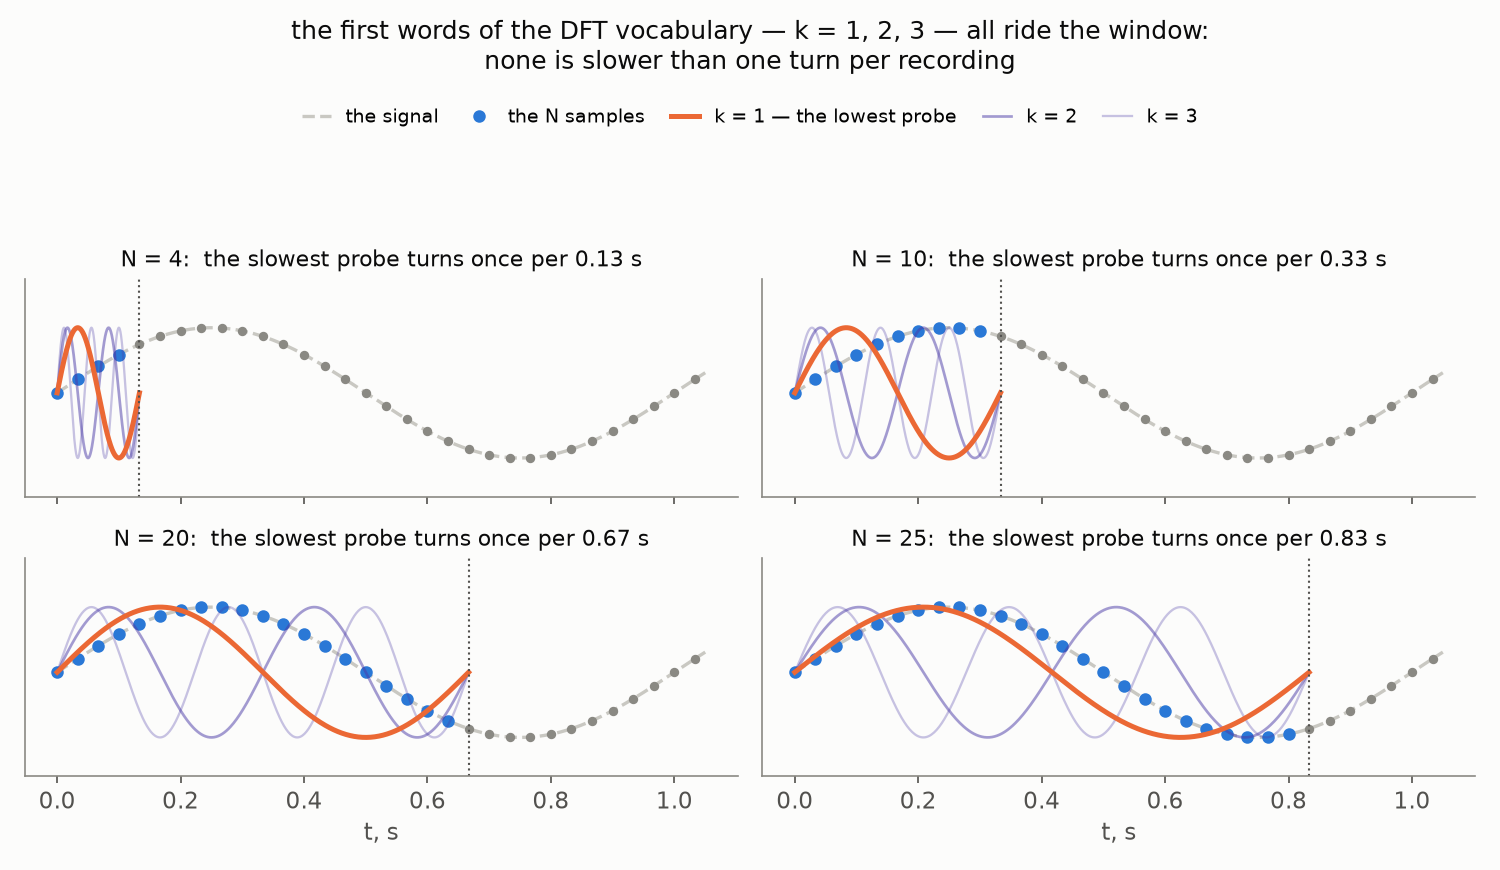
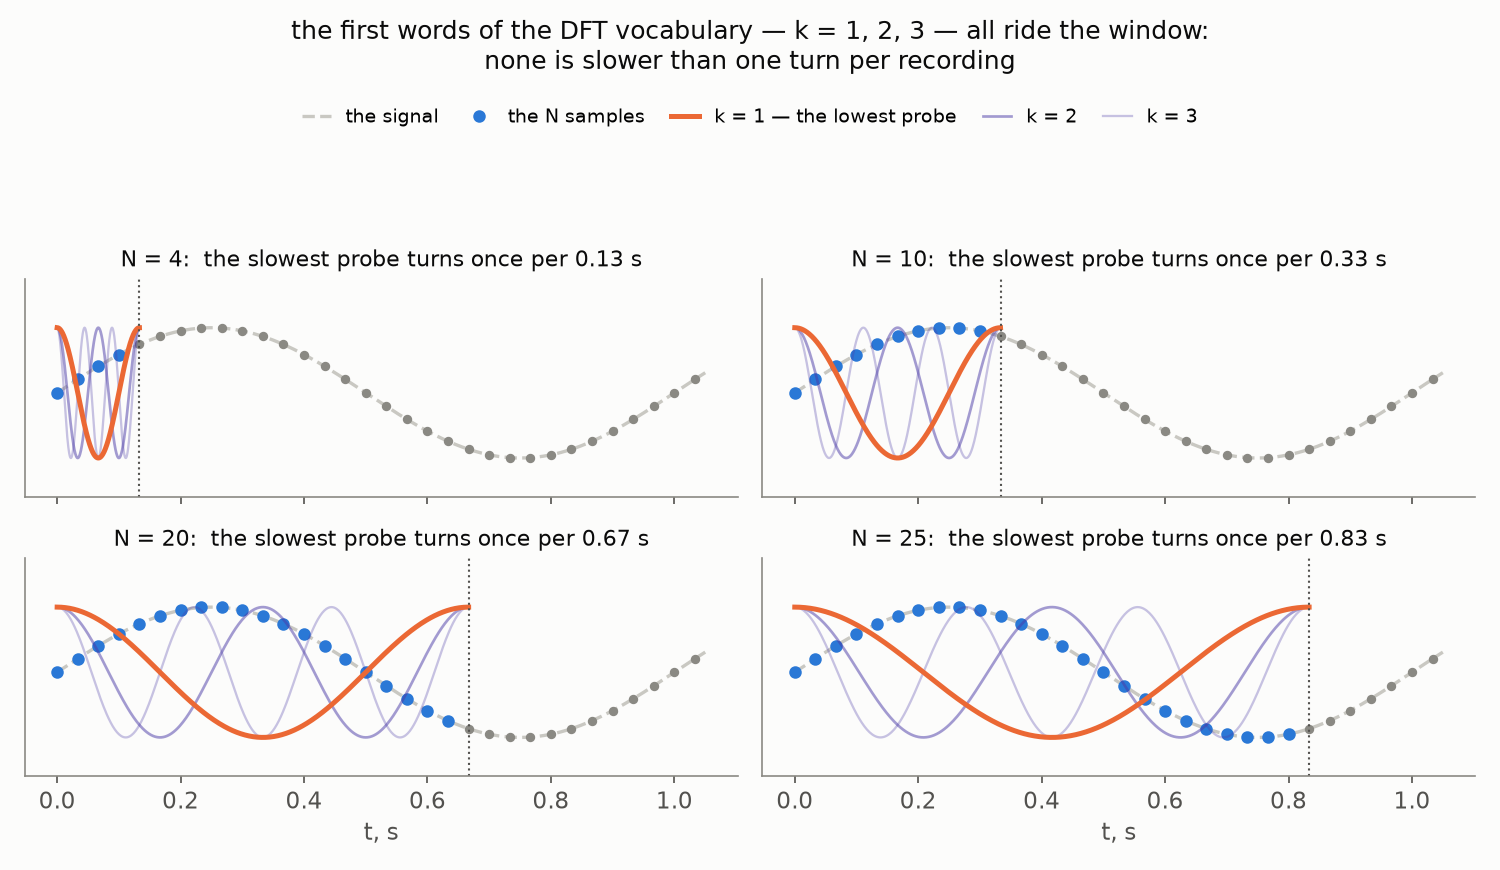
Unify probe figures on cosines; explain why the basis curves run past the last sample to NT

diff --git a/content/posts/fourier-series-to-spectrogram-part-2/index.md b/content/posts/fourier-series-to-spectrogram-part-2/index.md
@@ -72,6 +72,15 @@ the basis comes with it; the DFT then offers its $N$ probe frequencies —
 zero turns, one turn, two turns, … — and reports the signal's resemblance
 to each.
 
+(A detail worth a second look: in the picture, the curves run *past* the
+last sample, all the way to $t = NT$. That is not sloppiness — the window
+genuinely lasts $NT$ seconds: $N$ intervals of $T$ each, with a sample at
+the start of every interval. The last sample therefore sits at
+$n = N - 1$, while $t = NT$ is where the *next* period would begin — and a
+whole-turn probe arrives there exactly as it started. That endpoint
+belongs to the copy, not to this window; if we also sampled at $t = NT$,
+we would be counting the same point twice.)
+
 These $N$ oscillations deserve a name, because they are more than measuring
 sticks: look back at the *inverse* DFT formula from Part 1 — it is
 $x[n] = \frac{1}{N} \sum_k X[k]\, w_k[n]$, the signal reassembled as a
